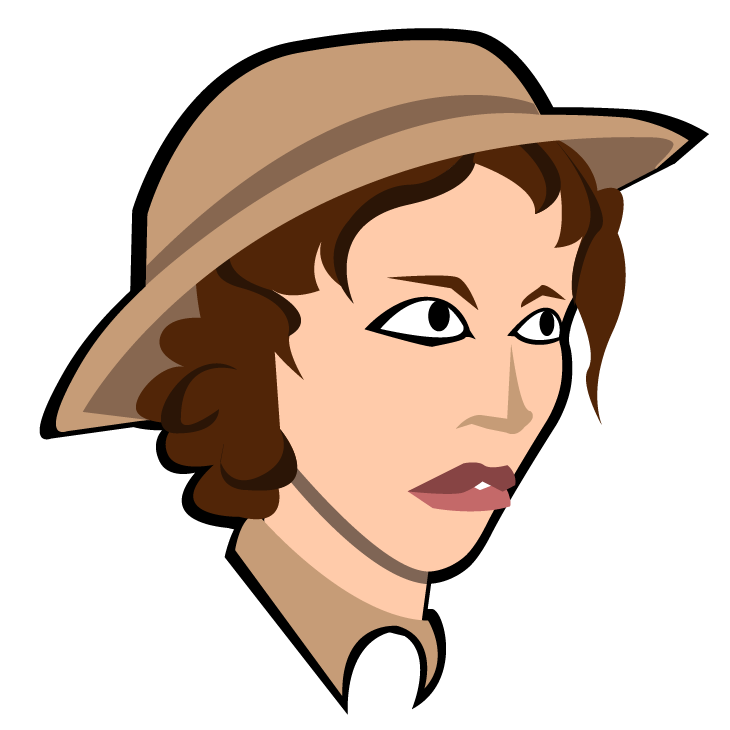
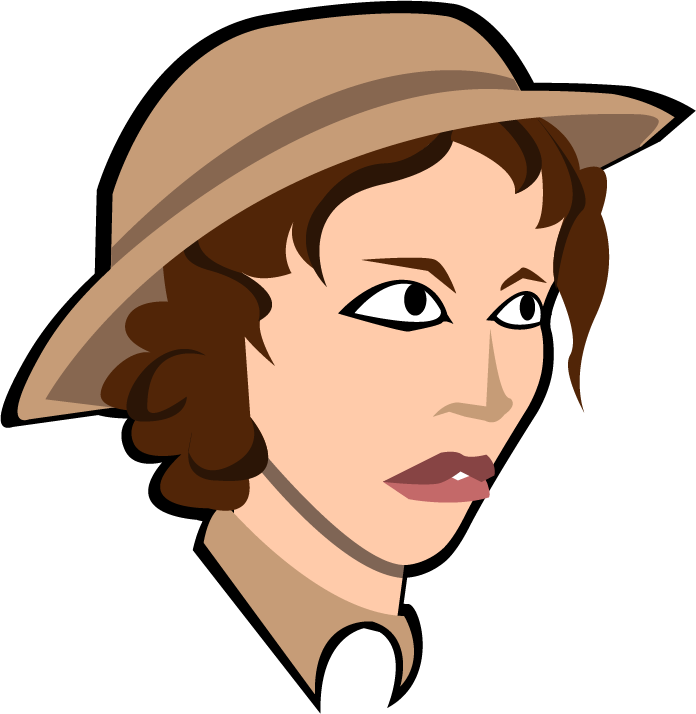
Blank Character Made Square Place holder fix

Changed region(s): [[0.0, 0.0, 1.0, 1.0], [0.4828, 0.3389, 0.6638, 0.493]]

diff --git a/ClientApp/src/components/GameHome.tsx b/ClientApp/src/components/GameHome.tsx
@@ -15,14 +15,14 @@ type GameProps = RouteComponentProps<{ gameCode?: string }> &
   typeof GameStore.actionCreators;
 
 type State = {
-  gameCode: string,
-  showError: boolean
+  gameCode: string;
+  showError: boolean;
 };
 
 class GameHome extends React.Component<GameProps, State> {
   constructor(props: GameProps) {
     super(props);
-    
+
     this.state = {
       gameCode: "",
       showError: false
@@ -99,8 +99,12 @@ class GameHome extends React.Component<GameProps, State> {
                     type="text"
                     value={this.state.gameCode}
                     onChange={this.handleChange}
-                    className={(this.state.showError && this.props.errorMessage ? styles.inputError : styles.input)}
-                    placeholder="XXX69..."
+                    className={
+                      this.state.showError && this.props.errorMessage
+                        ? styles.inputError
+                        : styles.input
+                    }
+                    placeholder="Enter Existing Code Here..."
                   />
                   <div className="input-group-append">
                     <button
@@ -113,7 +117,9 @@ class GameHome extends React.Component<GameProps, State> {
                   </div>
                 </div>
                 {this.props.errorMessage && this.state.showError && (
-                  <p className={styles.errorMessage}>{this.props.errorMessage}</p>
+                  <p className={styles.errorMessage}>
+                    {this.props.errorMessage}
+                  </p>
                 )}
               </div>
               <div style={{ textAlign: "center" }}>
